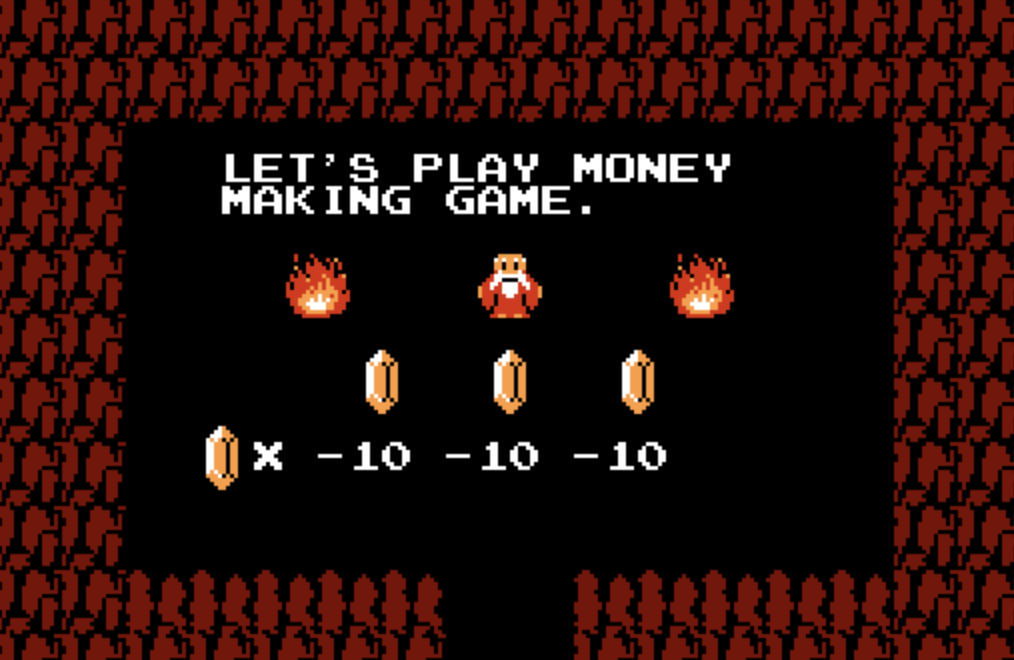
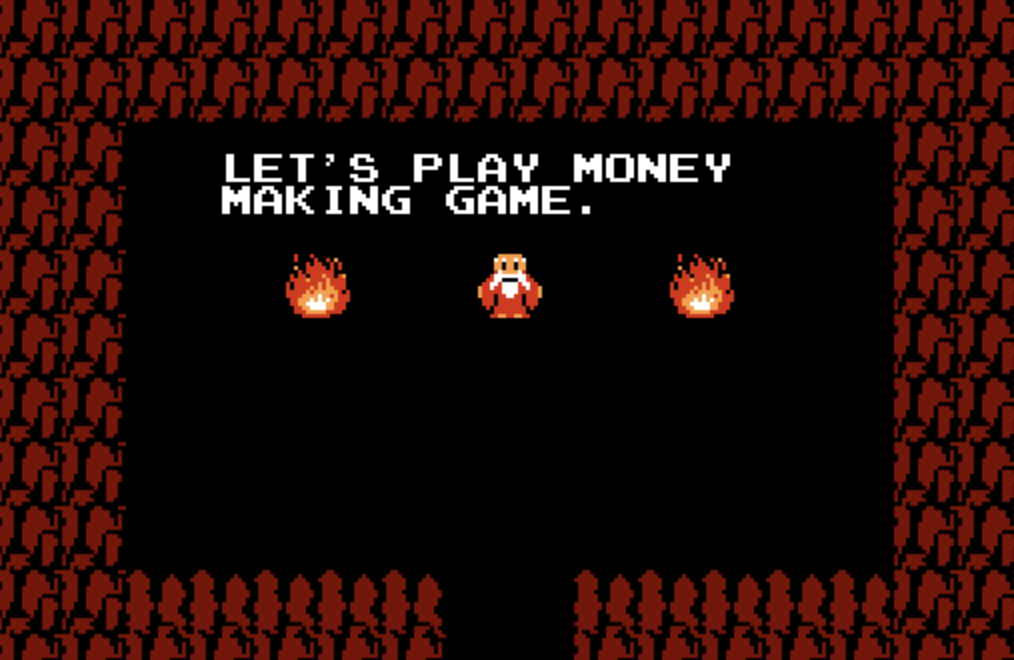
Modified code to add money in the over-world
- Slightly changed the zeldamaps.txt file to
  account for the same

- Changed the screen images of the caves as well

diff --git a/apps/zelda_app.cc b/apps/zelda_app.cc
@@ -50,6 +50,7 @@ void Zelda::setup() {
   curr_map_ = "screen-H8.png";
   mapper_.ReadImageLabels();
   mapper_.ReadGameScreens();
+  maps = mapper_.GetScreen();
 
   monster_.SetUpMaps(mapper_);
 
@@ -136,7 +137,7 @@ void Zelda::draw() {
     }
   } else {
     DrawBackground();
-
+    DrawMoney();
     if (is_game_paused_) {
       DisplayMenu();
       return;
@@ -271,6 +272,35 @@ void Zelda::DrawBackground() {
   cinder::gl::draw(texture, getWindowBounds());
 }
 
+void Zelda::DrawMoney() {
+  Location loc = player_engine_.GetPlayer().GetLoc();
+
+  cinder::fs::path money_path = cinder::fs::path("rupee.png");
+
+  cinder::gl::Texture2dRef texture = cinder::gl::Texture2d::create(
+      loadImage(loadAsset(money_path)));
+
+  for (int i = 0; i < kRowTiles; i++) {
+    for (int j = 0; j < kColTiles; j++) {
+      if (maps[map_num].coordinates_[i][j] == 'C') {
+        cinder::gl::draw(texture, Rectf((kCharacterSize * j *
+        getWindowWidth()/kFullScreenWidth),(kCharacterSize * i *
+        getWindowHeight()/kFullScreenHeight),(kCharacterSize * j *
+            getWindowWidth()/kFullScreenWidth) + kCharacterSize,
+                (kCharacterSize * i *
+                getWindowHeight()/kFullScreenHeight) + kCharacterSize));
+      }
+    }
+  }
+
+  if (maps[map_num].coordinates_[loc.Col()][loc.Row()] == 'C') {
+    maps[map_num].coordinates_[loc.Col()][loc.Row()] = '0';
+    player_engine_.SetTotalMoney(
+        player_engine_.GetPlayer().GetMoneyAmount() + 10);
+    mapper_.SetGameScreens(maps);
+  }
+}
+
 void Zelda::DrawPlayer() {
   const Location loc = player_engine_.GetPlayer().GetLoc();
 
@@ -339,15 +369,13 @@ void Zelda::DrawAttackLink() {
       loadImage(loadAsset(attack_path)));
 
   cinder::gl::draw(texture, Rectf((kAttackLinkSize *
-                                   (loc.Row()/kRatio) * getWindowWidth()/kFullScreenWidth),
-                                  (kAttackLinkSize * (loc.Col()/kRatio) *
-                                   getWindowHeight()/kFullScreenHeight),
-                                  (kAttackLinkSize * (loc.Row()/kRatio) *
-                                   getWindowWidth()/kFullScreenWidth) +
-                                  kAttackLinkSize,
-                                  (kAttackLinkSize * (loc.Col()/kRatio) *
-                                   getWindowHeight()/kFullScreenHeight) +
-                                  kAttackLinkSize));
+  (loc.Row()/kRatio) * getWindowWidth()/kFullScreenWidth),
+      (kAttackLinkSize * (loc.Col()/kRatio) *
+      getWindowHeight()/kFullScreenHeight),
+      (kAttackLinkSize * (loc.Row()/kRatio) *
+      getWindowWidth()/kFullScreenWidth) + kAttackLinkSize,
+      (kAttackLinkSize * (loc.Col()/kRatio) *
+      getWindowHeight()/kFullScreenHeight) + kAttackLinkSize));
 
   attack_count++;
 
@@ -378,14 +406,11 @@ void Zelda::DrawMonster() {
       if (mapper_.GetScreen()[map_num].coordinates_[i][j] == 'M') {
         cinder::gl::draw(texture, Rectf((kCharacterSize * j *
         getWindowWidth()/kFullScreenWidth),
-                                        (kCharacterSize * i *
-                                        getWindowHeight()/kFullScreenHeight),
-                                        (kCharacterSize * j *
-                                        getWindowWidth()/kFullScreenWidth) +
-                                        kCharacterSize,
-                                        (kCharacterSize * i *
-                                        getWindowHeight()/kFullScreenHeight) +
-                                        kCharacterSize));
+            (kCharacterSize * i * getWindowHeight()/kFullScreenHeight),
+            (kCharacterSize * j * getWindowWidth()/kFullScreenWidth) +
+            kCharacterSize,
+            (kCharacterSize * i * getWindowHeight()/kFullScreenHeight) +
+            kCharacterSize));
       }
     }
   }

diff --git a/include/zelda/player.h b/include/zelda/player.h
@@ -25,6 +25,12 @@ class Player {
   // Gets the current health of the player
   int GetCurrentHealth();
 
+  // Sets the amount of money the player has
+  void SetMoneyAmount(int set_money_amount);
+
+  // Gets the amount of money the player has
+  int GetMoneyAmount();
+
   // Sets the number of monsters killed
   void SetMonstersKilled(int monsters_killed);
 
@@ -40,6 +46,7 @@ class Player {
   int max_health_ = 3;
   int current_health_ = 3;
   int monsters_killed_ = 0;
+  int total_money_ = 0;
 };
 
 } // namespace zelda

diff --git a/apps/zelda_app.h b/apps/zelda_app.h
@@ -53,6 +53,9 @@ class Zelda : public cinder::app::App {
   // Draws the game screen's background
   void DrawBackground();
 
+  // Draws the money on the screen
+  void DrawMoney();
+
   // Draws the player
   void DrawPlayer();
 
@@ -86,6 +89,9 @@ class Zelda : public cinder::app::App {
 
   // The current map the player is on
   std::string curr_map_;
+
+  // Maintains a copy of all the maps
+  std::vector<zelda::Map> maps;
 
   // The bool values are to check for the possible directions
   bool is_move_right_ = true;

diff --git a/src/player.cc b/src/player.cc
@@ -29,6 +29,12 @@ void Player::SetCurrentHealth(int set_current_health) {
 
 int Player::GetCurrentHealth() { return current_health_; }
 
+void Player::SetMoneyAmount(int set_money_amount) {
+  total_money_ = set_money_amount;
+}
+
+int Player::GetMoneyAmount() { return total_money_; }
+
 void Player::SetMonstersKilled(int monsters_killed) {
   monsters_killed_ = monsters_killed;
 }

diff --git a/src/engine.cc b/src/engine.cc
@@ -28,6 +28,10 @@ void Engine::SetCurrentPlayerHealth(int current_health) {
   player_.SetCurrentHealth(current_health);
 }
 
+void Engine::SetTotalMoney(int set_total_money) {
+  player_.SetMoneyAmount(set_total_money);
+}
+
 void Engine::SetTotalMonstersKilled(int total_monsters_killed) {
   player_.SetMonstersKilled(total_monsters_killed);
 }

diff --git a/include/zelda/engine.h b/include/zelda/engine.h
@@ -28,6 +28,9 @@ class Engine {
   // Sets the current health of the player
   void SetCurrentPlayerHealth(int current_health);
 
+  // Sets the total money the player has
+  void SetTotalMoney(int set_total_money);
+
   // Sets the total number of monsters killed
   void SetTotalMonstersKilled(int total_monsters_killed);
 
